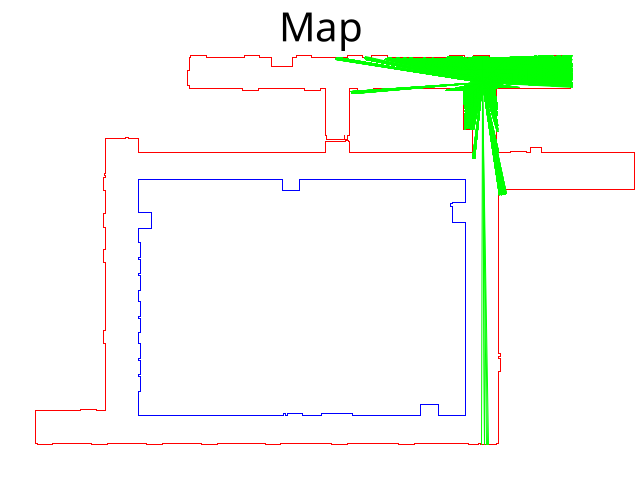
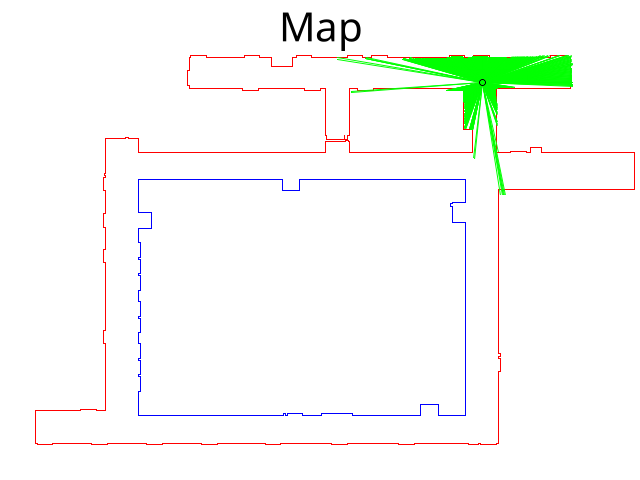
with sockets, seems to work

diff --git a/MainDevelopment/MappingSystem/RustMapLocalization/src/main.rs b/MainDevelopment/MappingSystem/RustMapLocalization/src/main.rs
@@ -1,3 +1,9 @@
+use std::{
+    io::{Read, Write},
+    net::TcpStream,
+};
+
+use itertools::Itertools;
 use parry2d::na::{Point2, Vector2};
 
 use crate::{get_points_from_file::get_points_from_file, make_test_data::TestData};
@@ -24,6 +30,7 @@ pub struct AvgPolarPoint {
 }
 
 pub fn find_position(points: &[PolarPoint], data: &TestData) -> (Point, f32, f32) {
+    println!("{}", points.len());
     let avg_points: [AvgPolarPoint; 36] = std::array::from_fn(|i| {
         let center_angle_deg = (i * 10) as f32;
         let mut count = 0;
@@ -66,30 +73,42 @@ fn main() {
     let b = std::fs::read(TEST_DATA_PATH).unwrap();
     let data = bincode::deserialize::<TestData>(&b).unwrap();
 
-    //data.plot(true, false, true, None);
+    let args = std::env::args().collect_vec();
+    let addr = &args[1];
+    let mut stream = TcpStream::connect(addr).unwrap();
 
-    let points = get_points_from_file("../Matlab + txt files/test475.txt");
-    //dbg!(&points);
+    loop {
+        let mut size_buf: [u8; 4] = Default::default();
+        stream.read_exact(&mut size_buf).unwrap();
+        let size = u32::from_le_bytes(size_buf);
+        dbg!(size);
+        let mut data_buf = vec![0_u8; size as usize * 4];
+        stream.read_exact(&mut data_buf).unwrap();
+        let points = (0..data_buf.len())
+            .step_by(8)
+            .map(|i| PolarPoint {
+                angle_deg: f32::from_le_bytes(data_buf[i..i + 4].try_into().unwrap()),
+                distance: f32::from_le_bytes(data_buf[i + 4..i + 8].try_into().unwrap()) / 1000.0,
+            })
+            .collect_vec();
+        dbg!(&points);
+        let (min_point_position, metric, angle) = find_position(&points, &data);
+        dbg!(min_point_position, metric, angle);
+        stream
+            .write_all(format!("{} {}", min_point_position.x, min_point_position.y).as_bytes())
+            .unwrap();
 
-    let (min_point_position, metric, angle) = find_position(&points, &data);
-
-    dbg!(min_point_position, metric, angle);
-
-    let mut polar_points_rotated = points.clone();
-    for p in polar_points_rotated.iter_mut() {
-        p.angle_deg += angle;
+        let mut polar_points_rotated = points.clone();
+        for p in polar_points_rotated.iter_mut() {
+            p.angle_deg += angle;
+        }
+        data.plot(
+            true,
+            false,
+            false,
+            Some((min_point_position, polar_points_rotated)),
+        );
     }
-
-    data.plot(
-        true,
-        false,
-        false,
-        Some((min_point_position, polar_points_rotated)),
-    );
-
-    //let bytes = bincode::serialize(&data).unwrap();
-    //let mut file = File::create("foo.txt")?;
-    //file.write_all(b"Hello, world!")?;
 }
 
 #[cfg(test)]
@@ -104,16 +123,18 @@ mod tests {
         //data.plot(true, false, true, None);
 
         let points = get_points_from_file("../Matlab + txt files/test475.txt");
+        let less_points = &points[0..1200];
         //dbg!(&points);
 
-        let (min_point_position, metric, angle) = find_position(&points, &data);
+        let (min_point_position, metric, angle) = find_position(less_points, &data);
 
         dbg!(min_point_position, metric, angle);
 
-        let mut polar_points_rotated = points.clone();
+        let mut polar_points_rotated = less_points.to_owned();
         for p in polar_points_rotated.iter_mut() {
             p.angle_deg += angle;
         }
+        dbg!(polar_points_rotated.len());
 
         data.plot(
             true,

diff --git a/MainDevelopment/MappingSystem/RustMapLocalization/src/make_test_data.rs b/MainDevelopment/MappingSystem/RustMapLocalization/src/make_test_data.rs
@@ -190,6 +190,9 @@ impl TestData {
                     .draw_series(LineSeries::new([(p1.x, p1.y), (p2.x, p2.y)], &GREEN))
                     .unwrap();
             }
+            chart
+                .draw_series(vec![Circle::new((pos.pos.x, pos.pos.y), 3, BLACK)])
+                .unwrap();
         }
 
         if let Some((pos, polar_points)) = plot_point {
@@ -203,6 +206,9 @@ impl TestData {
                     .draw_series(LineSeries::new([(p1.x, p1.y), (p2.x, p2.y)], &GREEN))
                     .unwrap();
             }
+            chart
+                .draw_series(vec![Circle::new((pos.x, pos.y), 3, BLACK)])
+                .unwrap();
         }
 
         root.present().unwrap();

diff --git a/MainDevelopment/MappingSystem/RustMapLocalization/tests/test_socket.py b/MainDevelopment/MappingSystem/RustMapLocalization/tests/test_socket.py
@@ -1,0 +1,21 @@
+import socket
+import struct
+
+s = socket.socket()
+
+# binding port and host
+s.bind(("0.0.0.0", 8001))
+
+# waiting for a client to connect
+s.listen(1)
+
+while True:
+    c, addr = s.accept()
+
+    arr = [0.0, 1000.0, 128.0, 1000.0]
+
+    c.sendall(struct.pack("I", len(arr)))
+    c.sendall(struct.pack(f"{len(arr)}f", *arr))
+
+    val = c.recv(1024)
+    print(val)

diff --git a/MainDevelopment/MappingSystem/RustMapLocalization/src/get_points_from_file.rs b/MainDevelopment/MappingSystem/RustMapLocalization/src/get_points_from_file.rs
@@ -27,6 +27,5 @@ pub fn get_points_from_file(path: &str) -> Vec<PolarPoint> {
             }
         })
         .collect_vec();
-    out.sort_by(|a, b| a.angle_deg.total_cmp(&b.angle_deg));
     out
 }
